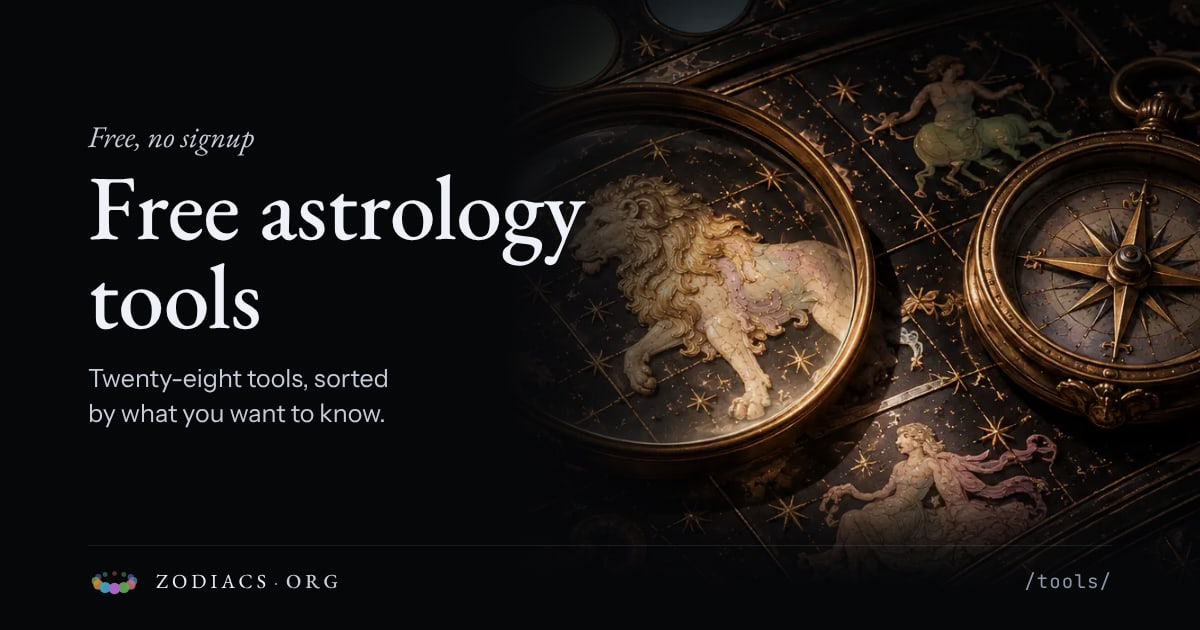
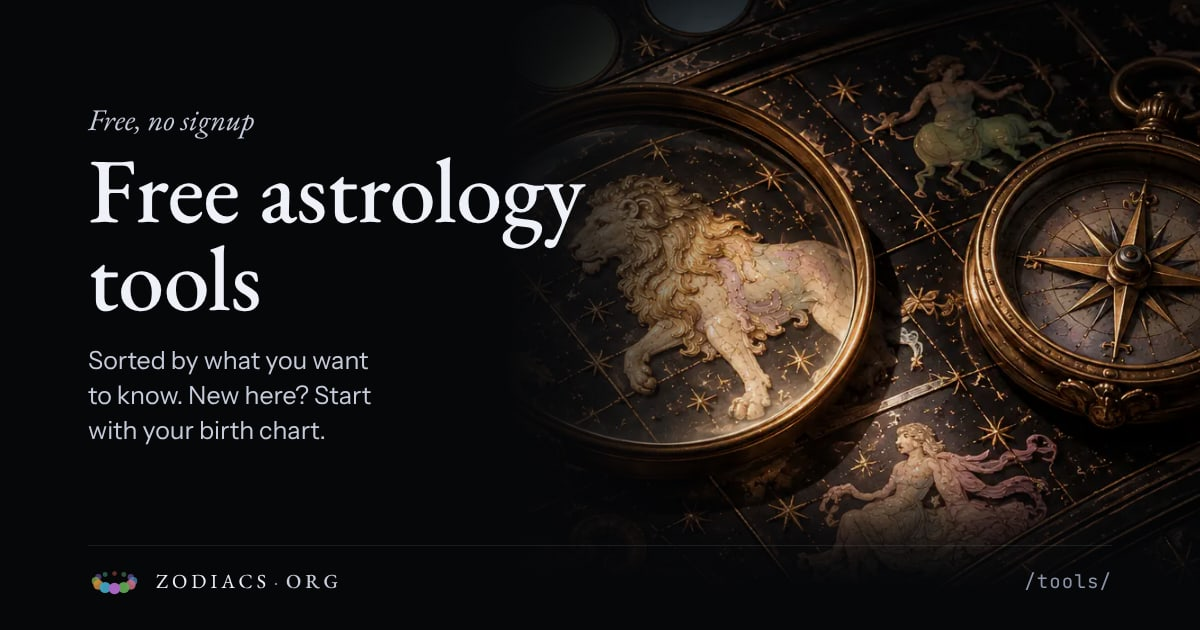
Take the tool count off the tools share card
A launch flag changes how many tools the hub lists, so the card keeps the
rest of the hub's sentence and prints no number.

Claude-Session: https://claude.ai/code/session_01XCqFcchFSoHB7Pz5eRAJUW

Changed region(s): [[0.0617, 0.181, 0.4933, 0.6937]]

diff --git a/src/lib/og-art-cards.test.ts b/src/lib/og-art-cards.test.ts
@@ -88,8 +88,6 @@ import {
 } from './og-art-cards.mjs';
 import { OG_EN, ogImageForPath } from '../strings/seo.en.mjs';
 import { CHINESE_ZODIAC_ANIMALS, CHINESE_ZODIAC_COPY, chineseZodiacText } from '../data/chinese-zodiac';
-import { TOOLS_HUB } from './nav-tools';
-import { isHiddenChildPage } from '../data/hidden-child-pages.mjs';
 import { RETURN_EN } from './return-visits/copy';
 import birthdays from '../data/birthdays.json';
 
@@ -449,13 +447,13 @@ describe('the art page cards (owner-delegated decisions, 2026-11-27)', () => {
     expect(spec('birthday').kicker).toBe(tool('birthday').kicker);
     expect(spec('birthday').title.join(' ')).toBe(tool('birthday').title);
     expect(page('src/pages/birthday/index.astro')).toContain(`<h1 class="display">${spec('birthday').title.join(' ')}.</h1>`);
-    // The tools hub: its kicker, headline and the first sentence of its lede, with the count the hub prints.
+    // The tools hub: its kicker, headline and its lede without the count, which a launch flag changes.
     const tools = page('src/pages/tools/index.astro');
     expect(tools).toContain(`<span class="kicker">${spec('tools').kicker}</span>`);
     expect(tools).toContain(`<h1 class="tools-hub__title">${spec('tools').title.join(' ')}</h1>`);
-    expect(tools).toContain('{countTitle} tools, sorted by what you want to know.');
-    expect(TOOLS_HUB.filter((entry) => !isHiddenChildPage(entry.href))).toHaveLength(28);
-    expect(spec('tools').line).toBe('Twenty-eight tools, sorted by what you want to know.');
+    expect(tools).toContain('{countTitle} tools, sorted by what you want to know. New here? Start with your birth chart.');
+    expect(spec('tools').line).toBe('Sorted by what you want to know. New here? Start with your birth chart.');
+    expect(spec('tools').line).not.toMatch(/\d|twenty/i);
     // Learn: the hero's kicker, headline and the first sentence of its lede.
     const learn = page('src/pages/learn/index.astro');
     expect(learn).toContain(`<span class="kicker">${spec('learn').kicker}</span>`);
